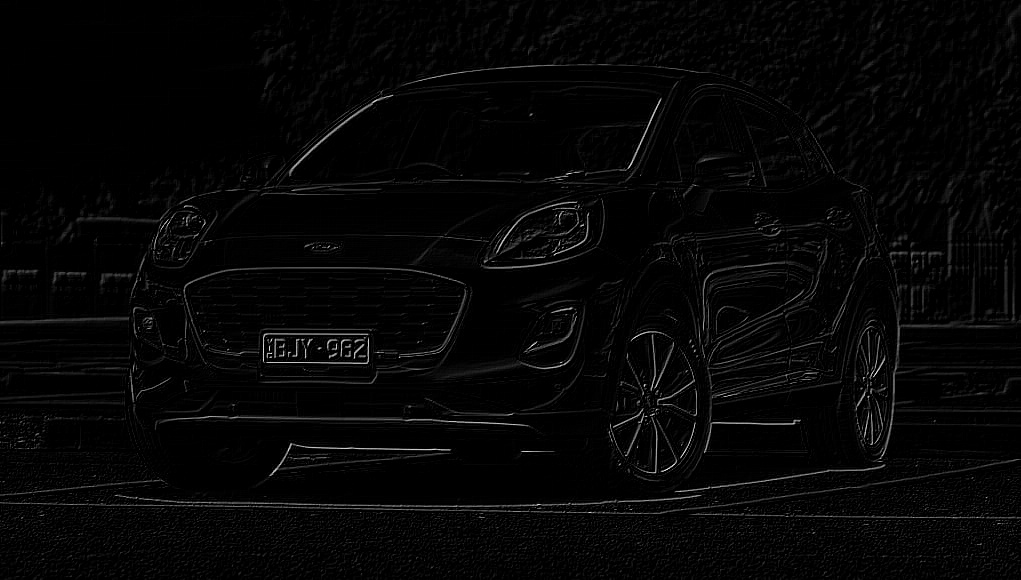
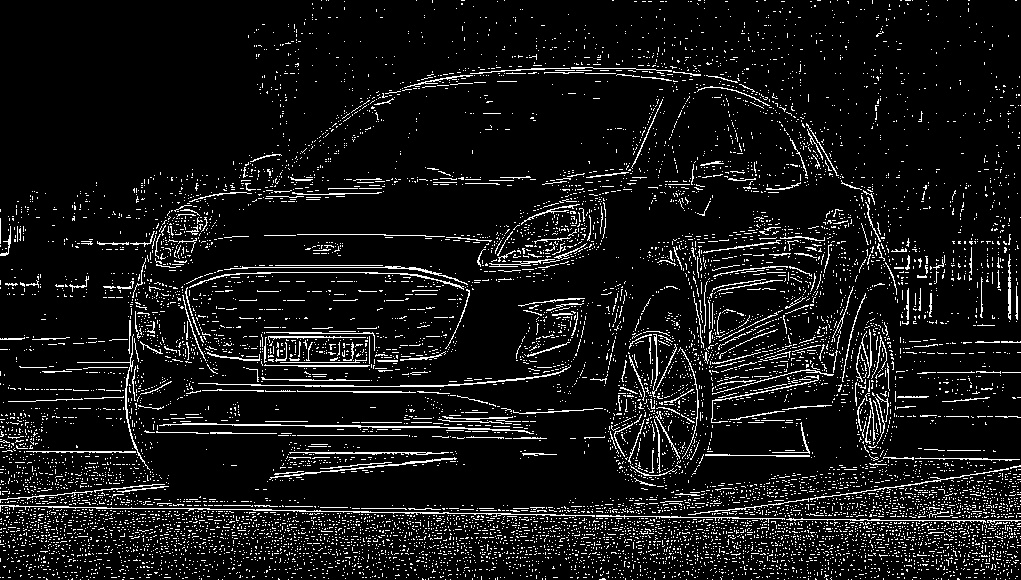
add filter pic and code

diff --git a/main.py b/main.py
@@ -4,10 +4,7 @@ import numpy as np
 from Filter import *
 from opencv_self import *
 from opencv import *
-from Noiseadder import *
-
-print("1-Generate noise image  2-Plate recognition")
-val = input('Operation : ')
+from Noiseadder import * 
 
 ori_filename = "test/image3.jpg"
 gau_filename = "C:/Users/USER/Documents/School/Semester2/ENEE631 IP/Driver-License-Plate-recognition/gaussian/gaus_img3.jpg"
@@ -18,89 +15,114 @@ LPF_filename = "C:/Users/USER/Documents/School/Semester2/ENEE631 IP/Driver-Licen
 HPF_filename = "C:/Users/USER/Documents/School/Semester2/ENEE631 IP/Driver-License-Plate-recognition/pro_image/HPF.jpg"
 ROB_filename = "C:/Users/USER/Documents/School/Semester2/ENEE631 IP/Driver-License-Plate-recognition/pro_image/ROB.jpg"
 SOL_filename = "C:/Users/USER/Documents/School/Semester2/ENEE631 IP/Driver-License-Plate-recognition/pro_image/SOL.jpg"
+CAN_filename = "C:/Users/USER/Documents/School/Semester2/ENEE631 IP/Driver-License-Plate-recognition/pro_image/CAN.jpg"
 
-if val == '1':
-    val_x = input("Which Process 1-noise adder 2-LPF 3-HPF 4-Edge detection : ")
-    ## Add Gaussian noise and peppered noise
-    if val_x == '1':
-        noiseadder(ori_filename, gau_filename, pro_gau_filename, pep_filename, pro_pep_filename)
+while(1):
+    print("1-Generate noise image  2-Plate recognition")
+    val = input('Operation : ')
 
-    ## Filter with LPF  
-    elif val_x == '2':  
-        img = cv.imread(ori_filename)
-        plt.imshow(img, cmap='gray')
-        plt.show()
-        filterchoice = 'gau'
-        LPF_img = filter_ori(img, filterchoice)
-        cv.imwrite(LPF_filename, LPF_img)
-        plt.imshow(LPF_img, cmap='gray')
-        plt.show()
-    
-    elif val_x == '3':
-        img = cv.imread(LPF_filename)
-        filterchoice = 'lap'
-        HPF_img = filter_ori(img, filterchoice)
-        cv.imwrite(HPF_filename, HPF_img)
+    if val == '1':
+        val_x = input("Which Process 1-noise adder 2-LPF 3-HPF 4-Edge detection : ")
+        ## Add Gaussian noise and peppered noise
+        if val_x == '1':
+            noiseadder(ori_filename, gau_filename, pro_gau_filename, pep_filename, pro_pep_filename)
 
-    elif val_x == '4':
-        img = cv.imread(ori_filename, 0)
-        filterchoice = 'rob'
-        ROB_img = filter_gray(img, filterchoice)
-        cv.imwrite(ROB_filename, ROB_img)
+        ## Filter with LPF  
+        elif val_x == '2':  
+            img = cv.imread(ori_filename)
+            plt.imshow(img, cmap='gray')
+            plt.show()
+            filterchoice = 'gau'
+            LPF_img = filter_ori(img, filterchoice)
+            cv.imwrite(LPF_filename, LPF_img)
+            plt.imshow(LPF_img, cmap='gray')
+            plt.show()
+        
+        elif val_x == '3':
+            img = cv.imread(LPF_filename)
+            filterchoice = 'lap'
+            HPF_img = filter_ori(img, filterchoice)
+            cv.imwrite(HPF_filename, HPF_img)
 
-        filterchoice = 'sol'
-        SOL_img = filter_gray(img, filterchoice)
-        cv.imwrite(SOL_filename, SOL_img)
+        elif val_x == '4':
+            img = cv.imread(ori_filename, 0)
+            col, row = img.shape
+
+            filterchoice = 'rob'
+            ROB_img = filter_gray(img, filterchoice)
+            for i in range(col):
+                for j in range(row):
+                    if ROB_img[i][j] >= 10:
+                        ROB_img[i][j] = 255
+                    else:
+                        ROB_img[i][j] = 0
+            cv.imwrite(ROB_filename, ROB_img)
+
+            filterchoice = 'sol'
+            SOL_img = filter_gray(img, filterchoice)
+            for i in range(col):
+                for j in range(row):
+                    if ROB_img[i][j] >= 130:
+                        ROB_img[i][j] = 255
+                    else:
+                        ROB_img[i][j] = 0
+            cv.imwrite(SOL_filename, SOL_img)
+            
+            filterchoice = 'can'
+            CAN_img = filter_gray(img, filterchoice)
+            cv.imwrite(CAN_filename, CAN_img)
 
 
-if val == '2':
-    val_x = input("Which image? 1-Orig 2-Gaussain 3-Pepper : ")
-    if val_x != '1':
-        val_y = input("Which image? 1-Noisy image 2-Noise reduction image : " )
-    ## Process the original image
-    if val_x == '1': 
-        bifilter_para = (10, 17, 17)
-        canny = (30,200)
-        poly = 10
-        contour_val = 2
-        opencv_ori(ori_filename, bifilter_para, canny, poly, contour_val)
+    if val == '2':
+        val_x = input("Which image? 1-Orig 2-Gaussain 3-Pepper: ")
+        if val_x != '1':
+            val_y = input("Which image? 1-Noisy image 2-Noise reduction image : " )
+        ## Process the original image
+        if val_x == '1': 
+            bifilter_para = (10, 17, 17)
+            canny = (30,200)
+            poly = 10
+            contour_val = 2
+            opencv_ori(ori_filename, bifilter_para, canny, poly, contour_val)
+
+        
+        ## Process the White noise image
+        elif val_x == '2' and val_y == '1':
+            bifilter_para = (15, 50, 50)
+            canny = (30,50)
+            poly = 10
+            contour_val = 1
+            filter = 0
+            opencv_self(gau_filename, bifilter_para, canny, poly, contour_val, filter)
+        
+        ## Process the Noise reduction image
+        elif val_x == '2' and val_y == '2':
+            bifilter_para = (10, 17, 17)
+            canny = (50,100)
+            poly = 10
+            contour_val = 2
+            filter = 1
+            opencv_self(pro_gau_filename, bifilter_para, canny, poly, contour_val, filter)
+        
+        ## Process Peppered noisy image   
+        elif val_x == '3' and val_y == '1':
+            bifilter_para = (10, 17, 17)
+            canny = (30,200)
+            poly = 10
+            contour_val = 2
+            filter = 0
+            opencv_self(pep_filename, bifilter_para, canny, poly, contour_val, filter)
+        
+        ## Process Noice reduction image
+        elif val_x == '3' and val_y == '2':
+            bifilter_para = (11, 50, 50)
+            canny = (150,200)
+            poly = 15
+            contour_val = 0
+            filter = 0
+            opencv_self(pro_pep_filename, bifilter_para, canny, poly, contour_val, filter)
     
-    ## Process the White noise image
-    elif val_x == '2' and val_y == '1':
-        bifilter_para = (15, 50, 50)
-        canny = (30,50)
-        poly = 10
-        contour_val = 1
-        filter = 0
-        opencv_self(gau_filename, bifilter_para, canny, poly, contour_val, filter)
-    
-    ## Process the Noise reduction image
-    elif val_x == '2' and val_y == '2':
-        bifilter_para = (10, 17, 17)
-        canny = (50,100)
-        poly = 10
-        contour_val = 2
-        filter = 1
-        opencv_self(pro_gau_filename, bifilter_para, canny, poly, contour_val, filter)
-    
-    ## Process Peppered noisy image   
-    elif val_x == '3' and val_y == '1':
-        bifilter_para = (10, 17, 17)
-        canny = (30,200)
-        poly = 10
-        contour_val = 2
-        filter = 0
-        opencv_self(pep_filename, bifilter_para, canny, poly, contour_val, filter)
-    
-    ## Process Noice reduction image
-    elif val_x == '3' and val_y == '2':
-        bifilter_para = (11, 50, 50)
-        canny = (150,200)
-        poly = 15
-        contour_val = 0
-        filter = 0
-        opencv_self(pro_pep_filename, bifilter_para, canny, poly, contour_val, filter)
-    
+
 
 
 

diff --git a/opencv_filter.py b/opencv_filter.py
@@ -3,23 +3,50 @@ from matplotlib import pyplot as plt
 import imutils
 import numpy as np
 import easyocr
+from Filter import *
 
-
-def opencv_ori(filename, bifilter, canny_val, poly, contour_val):
+def opencv_edge(filename, poly, contour_val, filter):
     image = cv.imread(filename)
     img = cv.cvtColor(image, cv.COLOR_BGR2GRAY)
-    # plt.imshow(img, cmap = 'gray')
+    # img = cv.imread('Gaussian/gaus_car1.png')
+    plt.imshow(img, cmap = 'gray')
+    plt.xticks([]), plt.yticks([])
+    plt.show()
+    row, col = img.shape
 
-    filter1, filter2, filter3 = bifilter
-    canny1, canny2 = canny_val
+    filter1 = 10 
+    filter2 = 17
+    filter3 = 17
+    if filter == 1:
+    ## Sharpen image
+        # filterType = 'lap'
+        # temp = filter_gray(img, filterType)
+        #bfilter = cv.bilateralFilter(img, filter1, filter2, filter3)
+        # temp = filter_gray(temp, filterType)
+        temp = img
+        for i in range(row):
+            for j in range(col):
+                if temp[i][j] >= 20:
+                    temp[i][j] = 255
+                else:
+                    temp[i][j] = 0
+        filterType = 'gau'
+        temp = filter_gray(temp, filterType)
+        temp = cv.Canny(temp, 30, 200)
+        plt.imshow(temp, cmap='gray')
+        plt.show()
 
+    edge = temp
+    # canny1 = 30
+    # canny2 = 100
     ## filtering and edge detection
-    bfilter = cv.bilateralFilter(img, filter1, filter2, filter3)
-    plt.imshow(bfilter, cmap='gray')
-    plt.show()
-    edge = cv.Canny(bfilter, canny1, canny2)
-    plt.imshow(edge, cmap='gray')
-    plt.show()
+    # bfilter = cv.bilateralFilter(img, filter1, filter2, filter3) #11, 17, 17
+    # edge = cv.Canny(temp, canny1, canny2)
+    # plt.imshow(edge, cmap='gray')
+    # plt.show()
+
+    
+
 
     ## find countours and Apply Masking
     keypoints = cv.findContours(edge.copy(), cv.RETR_TREE, cv.CHAIN_APPROX_SIMPLE)
@@ -31,22 +58,28 @@ def opencv_ori(filename, bifilter, canny_val, poly, contour_val):
     for contour in contours:
         if contour_val == 1:
             peri = cv.arcLength(contour, True)
-            approx = cv.approxPolyDP(contour, 0.018 * peri, True)
+            approx = cv.approxPolyDP(contour, 0.09 * peri, True)
         else:
             approx = cv.approxPolyDP(contour, poly, True)
         if len(approx) == 4:
             location = approx
             break
 
-    if location.all() == None:
+    if hasattr("location", "all"):
+        print('License Foud')
+    else:
         print('Cannot find license')
+
     print(location)
 
     mask = np.zeros(img.shape, np.uint8)
+    print(img.shape)
     new_image = cv.drawContours(mask, [location], 0, 255, -1)
-    new_image = cv.bitwise_and(img, img, mask = mask)
     # plt.imshow(new_image, cmap = 'gray')
     # plt.show()
+    new_image = cv.bitwise_and(img, img, mask = mask)
+    plt.imshow(new_image, cmap = 'gray')
+    plt.show()
 
     ## Crop the image 
     (x,y) = np.where(mask == 255)
@@ -59,10 +92,6 @@ def opencv_ori(filename, bifilter, canny_val, poly, contour_val):
     reader = easyocr.Reader(['en'])
     plate = reader.readtext(cropped_img)
     print("Detected plate number:", plate)
-    #print(plate[0][-2])
-    # print("Confidence:")
-    # print(plate[0][-1])
-
 
 
     ## Write the result on the image

diff --git a/Filter.py b/Filter.py
@@ -79,11 +79,16 @@ def filtering(filterType, img):
         #   0  1
         rows = 2
         col = 2
-        filter = np.array([[-1,0], [0,1]])
-        print("Roberts Filter")
+        filter = np.array([[1,0], [0,-1]])
+        print("Roberts Filter-x")
         print(filter)
         output = np.zeros((img_row, img_col))
         image_sharp = cv.filter2D(src=img, ddepth=-1, kernel=filter)
+
+        filter = np.array([[0,1],[-1,0]])
+        print("Roberts Filter-y")
+        print(filter)
+        image_sharp = cv.filter2D(src=image_sharp, ddepth=-1, kernel=filter)
         # output = signal.convolve2d(img, filter)
         return image_sharp
 
@@ -95,11 +100,17 @@ def filtering(filterType, img):
         rows = 3
         col = 3
         filter = np.array([[-1,0,1], [-2,0,2], [-1,0,1]])
-        print("Sol Filter")
+        print("Sol Filter-x")
         print(filter)
 
         output = np.zeros((img_row, img_col))
         image_sharp = cv.filter2D(src=img, ddepth=-1, kernel=filter)
+
+        filter = np.array([[-1,-2,1], [0,0,0], [1,2,1]])
+        print("Sol Filter-y")
+        print(filter)
+        image_shape = cv.filter2D(src=image_sharp, ddepth=-1, kernel=filter)
+
         # output = signal.convolve2d(img, filter)
         return image_sharp
 
@@ -143,6 +154,10 @@ def filter_gray(img_gray, filterchoice):
         # cv.imshow('Sobel', Sob_img)
         # cv.waitKey(0)
         return Sob_img
+    
+    elif filterchoice == 'can':
+        can = cv.Canny(img_gray, 30, 200)
+        return can
 
 
 def filter_ori(img, filterType):
@@ -153,6 +168,7 @@ def filter_ori(img, filterType):
                          [1, 1, 1]
                          ]) / 9
         resulting_image = cv.filter2D(img, -1, kernel)
+        print("LPF applied")
         return resulting_image
 
     elif filterType == 'lap':
@@ -162,6 +178,7 @@ def filter_ori(img, filterType):
                          [ 0, -1,  0]
                          ])
         resulting_image = cv.filter2D(img, -1, kernel)
+        print("HPF applied")
         return resulting_image
   
 
